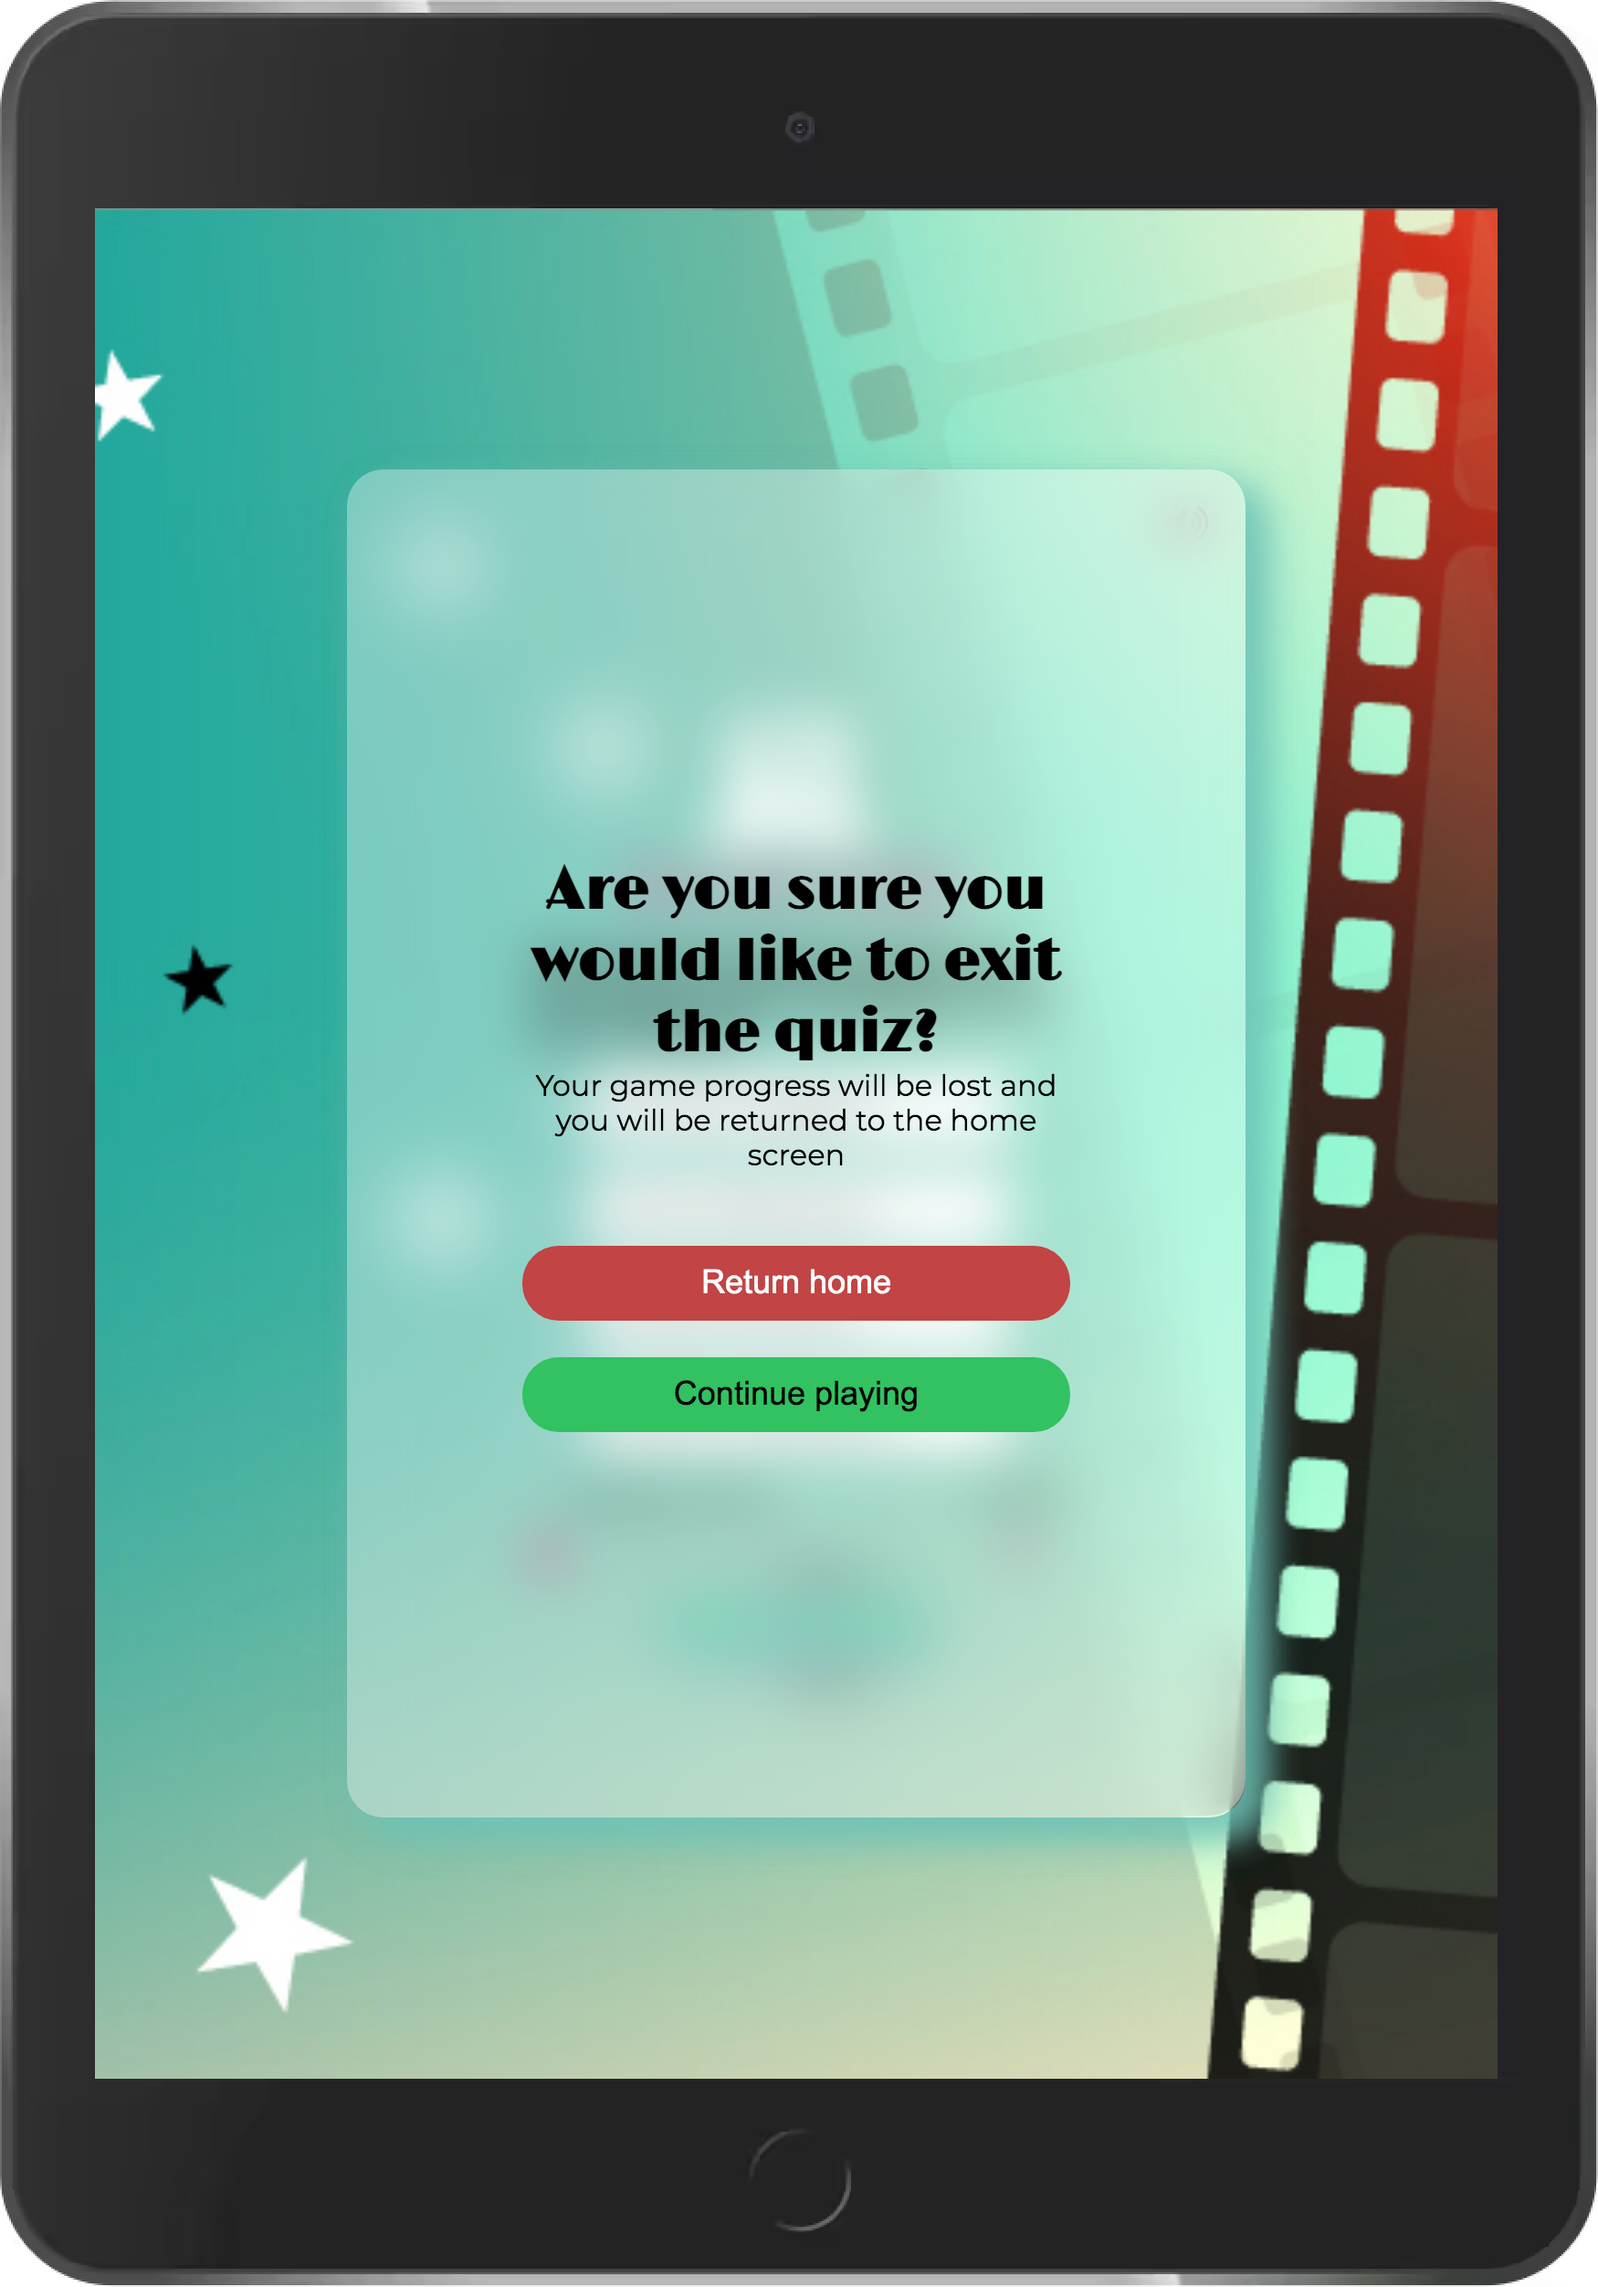
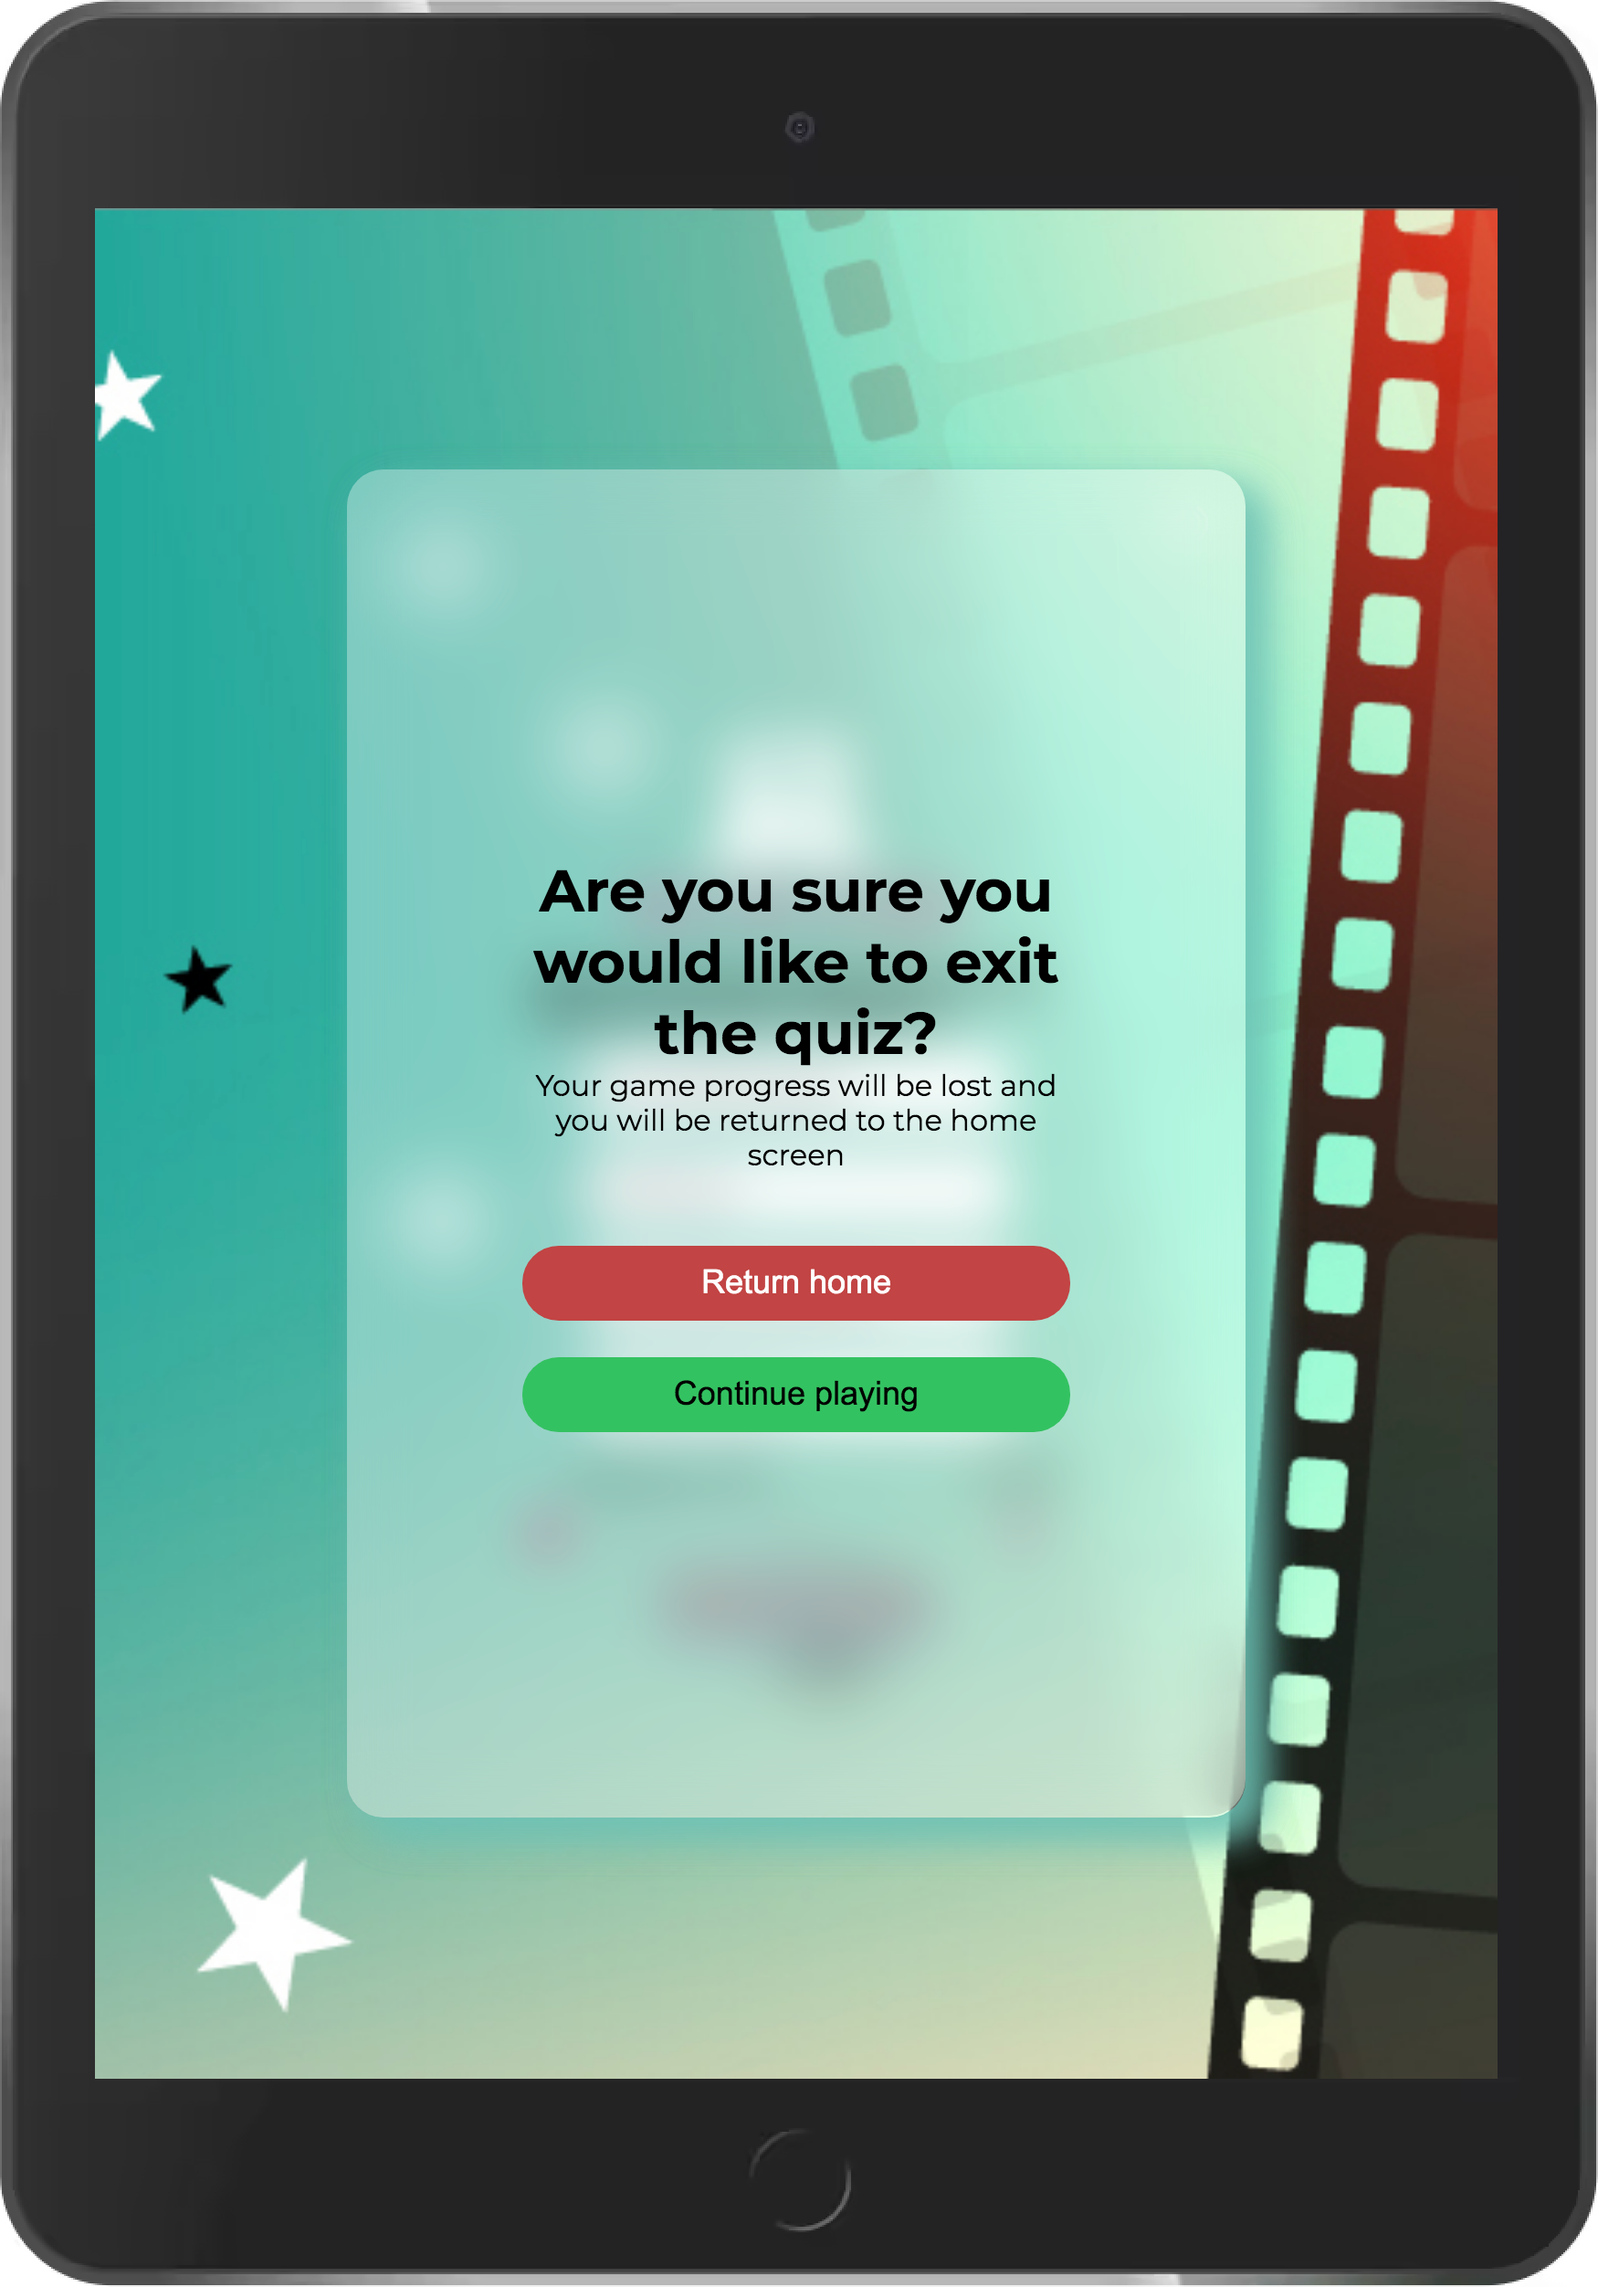
docs: Updated screen shots and the readme file

diff --git a/README.md b/README.md
@@ -12,7 +12,7 @@ Thank you for visiting [my project!](https://dkitley1975.github.io/movie-quiz/)
     - [Typeface](#typeface)
     - [Colours](#colours)
     - [Sounds](#sounds)
-    - [Offline & insufficient Height messages](#offline--insufficient-height-messages)
+    - [Insufficient Height message](#insufficient-height-message)
     - [Features Left to Implement](#features-left-to-implement)
   - [Testing](#testing)
     - [Chrome Lighthouse Report](#chrome-lighthouse-report)
@@ -113,7 +113,7 @@ There are 6 sample high scores added to the storage initially, the score values 
 
 In order to find appropriate typefaces for my website, I have visited [Google Fonts](https://fonts.google.com/ "Google Fonts") to explore the various options.
 For the main body text, I have chosen the google typeface Montserrat. This is a visually appealing and easy to read typeface.
-For the headings, I wanted a slightly different typeface. I explored for headings and choose the google font Limelight.
+For the Logo, I wanted a slightly different typeface. I and choose the google font Limelight.
 This font is visually appealing and pairs well with the typeface Montserrat.
 
   ![Typefaces](./docs/screenshots/font-pairings.png)
@@ -138,12 +138,9 @@ This way my content will be easily readable.
 I have implemented a sound to indicate a correct and an incorrect answer, I have added a mute icon to the quiz container to allow the user to select if they wish to hear the confirmation sounds.
 The user selection is also added into the session storage, this way at the end of the game and the user plays again, the mute/play sound status is recalled from the storage and is continued to implemented within the gameplay.
 
-### Offline & insufficient Height messages
+### Insufficient Height message
 
 - I have added a message that covers over the welcome page if:
-  - **Offline** - Initially if the user appears to be offline. This function checks if the user appears to be offline and displays a message asking for the user to refresh once they are connected. This Function envelopes the fetch API elements and the Quiz start sections within the javascript.
-  ![Offline Message](./docs/screenshots/offline-message.png)
-
   - **Height of the screen** - if the height of the screen is of insufficient size to display the quiz. The site displays a message asking the user to rotate their screen to continue playing the quiz.
   ![Insufficient Height Message](./docs/screenshots/height-insufficient.png)
 
